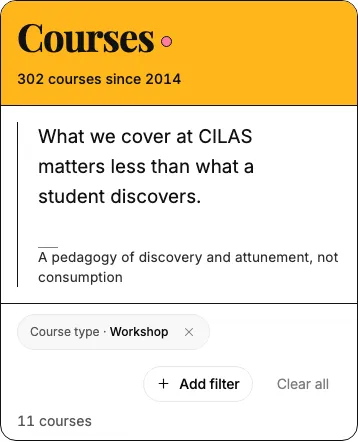
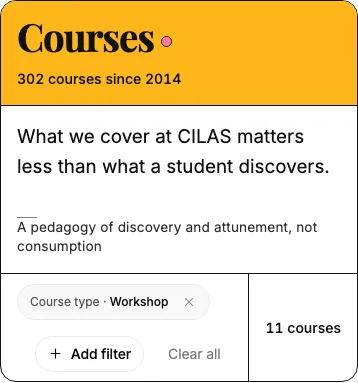
feat(study): count in its own cell, quote without its side rule

diff --git a/src/app/(frontend)/styles.css b/src/app/(frontend)/styles.css
@@ -1982,34 +1982,39 @@ a.collection-item:hover {
 .study-card .study-quote blockquote {
   margin-block: 0;
   max-width: 60ch;
-  border-inline-start-color: var(--poster-ink);
+  padding-inline-start: 0;
+  border-inline-start: 0;
   color: var(--poster-ink);
 }
 .study-card .study-quote cite {
   color: oklch(0.3 0 0);
 }
-/* The filters cell: the toolbar loses its own box and sits on the paper,
-   the count at the row's end. */
+/* The filters row: the toolbar loses its own box and sits on the paper; the
+   count is its own cell at the row's end. */
 .study-card-filters {
   display: flex;
-  flex-wrap: wrap;
-  align-items: center;
-  gap: 0.5rem 1.5rem;
-  padding: calc(var(--poster-pad) * 0.6) var(--poster-pad);
+  align-items: stretch;
   border-block-start: 1px solid var(--poster-ink);
 }
 .study-card-filters > [role='group'] {
-  flex: 1 1 20rem;
+  flex: 1 1 auto;
+  min-width: 0;
   min-height: 0;
-  padding: 0;
+  padding: calc(var(--poster-pad) * 0.6) var(--poster-pad);
   border: 0;
   border-radius: 0;
   background: transparent;
 }
 .study-card-count {
+  display: flex;
+  flex: none;
+  align-items: center;
+  padding: calc(var(--poster-pad) * 0.6) var(--poster-pad);
+  border-inline-start: 1px solid var(--poster-ink);
   font-size: 0.875rem;
+  font-weight: 500;
   font-variant-numeric: tabular-nums;
-  color: var(--text-secondary);
+  color: var(--poster-ink);
 }
 @container study-card (width > 48rem) {
   .study-card {

diff --git a/docs/content-driven-card-layouts.md b/docs/content-driven-card-layouts.md
@@ -284,7 +284,7 @@ A section that holds a list rather than a single card (the course flow beside th
 
 The fellow card maps the poster like this: photo (media cell, 4:3 when stacked; when wide, a `min(36%, 18rem)` column that the photo fills from top to bottom, at least square, so its end meets the end of the text beside it; the image covers the cell from its focal point), name on the colour panel (section-heading style, regular weight), the bio as a paper cell under the name, then one ruled foot row instead of the poster's strip: the notice label (icon box and "From the fellow") under the photo column, and "View profile" in the card's colour across the text column, its words on the bio's text edge. The fellows' note follows on paper. The note is course-level: with one fellow it closes that card; with several it gets its own card after theirs, in the next palette colour, with an empty paper cell where the action would be. A card without a note keeps an empty paper box under the photo on wide cards, and gives the action the whole row on narrow ones. Content sizes the card; nothing shares a height with a neighbour.
 
-The study page header is the same card as a page head, with no photo: the page title (bold, see Type) and the course count on the yellow panel, words set at its bottom; the quote on paper beside it when the card is wider than `48rem`, under it when narrower; and the course filters on paper across the foot, the Arc filter toolbar without its own border, radius or fill, so the card's rule is its only box. The card keeps the light theme's tokens for the toolbar in both themes, and has no `overflow: clip`, so the filter menu can open past it (the panel rounds its own top corners instead). While any filter is on, a pink dot with an ink ring follows the title; it pulses while the next list loads, and stays still with reduced motion.
+The study page header is the same card as a page head, with no photo: the page title (bold, see Type) and the course count on the yellow panel, words set at its bottom; the quote on paper beside it, with no rule at its side, when the card is wider than `48rem`, under it when narrower; and the course filters on paper across the foot, the Arc filter toolbar without its own border, radius or fill, so the card's rule is its only box, and the result count in its own ruled cell at the row's end. The card keeps the light theme's tokens for the toolbar in both themes, and has no `overflow: clip`, so the filter menu can open past it (the panel rounds its own top corners instead). While any filter is on, a pink dot with an ink ring follows the title; it pulses while the next list loads, and stays still with reduced motion.
 
 ## 8. Verification
 
